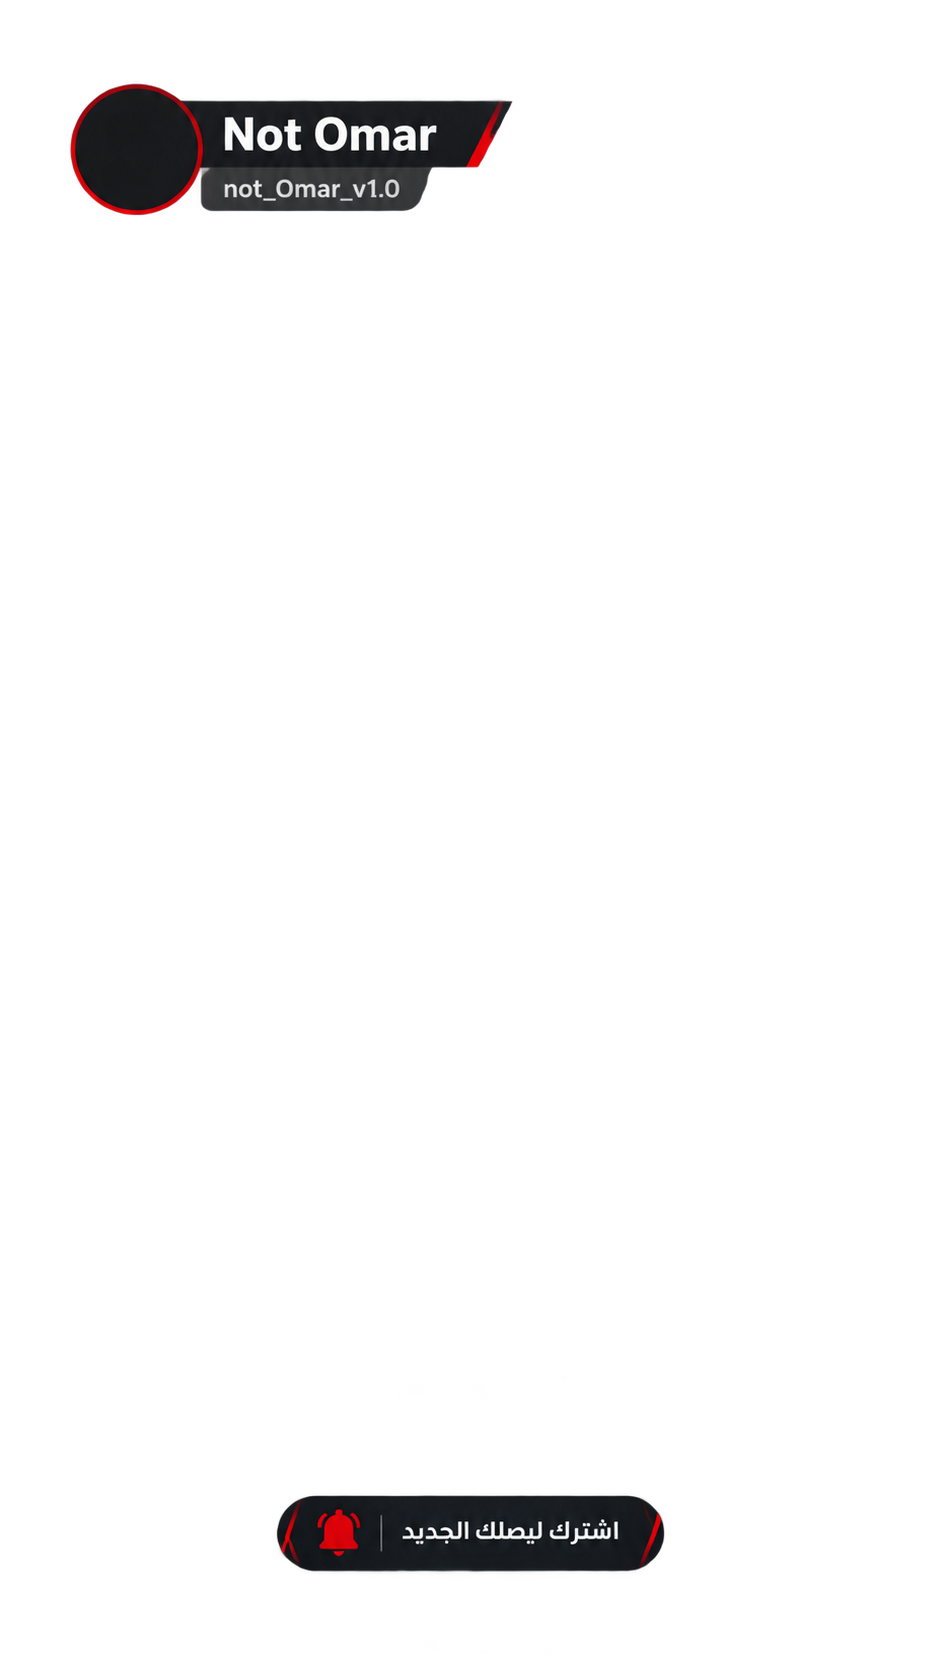
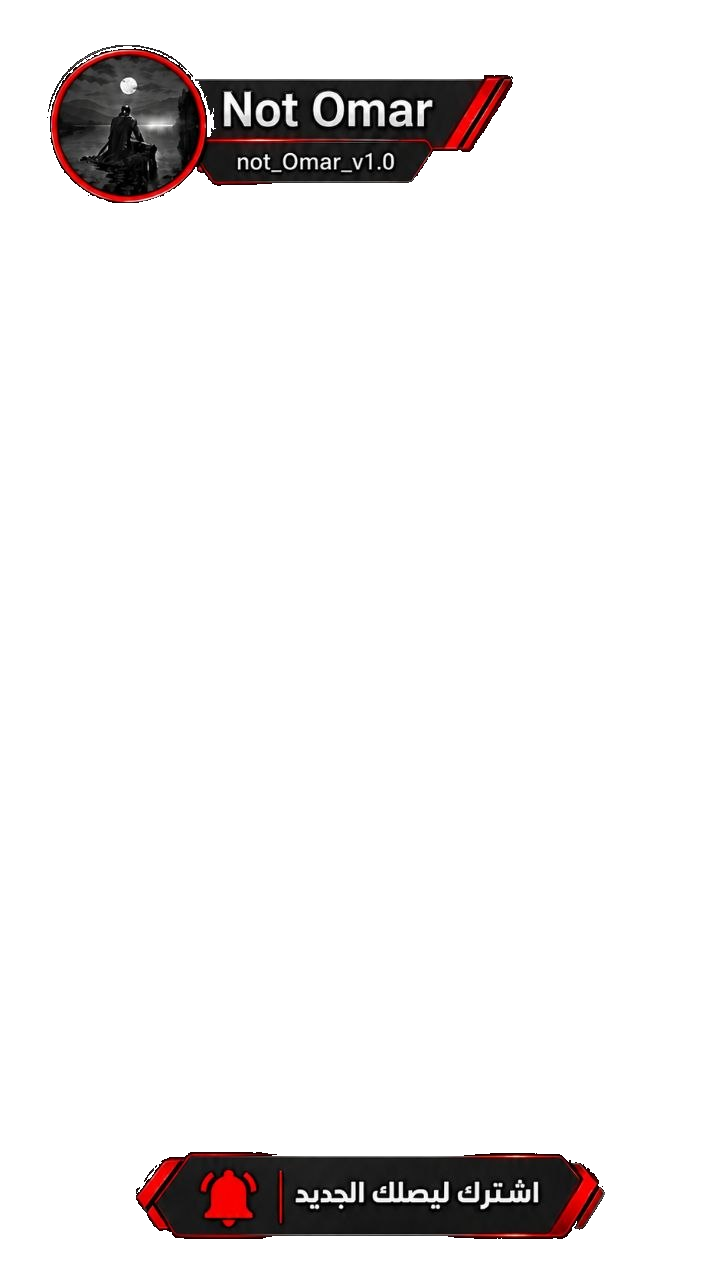
feat: adopt transparent Shorts template

Changed region(s): [[0.0611, 0.0312, 0.7028, 0.1562], [0.1833, 0.875, 0.8556, 0.9688]]

diff --git a/tests/test_video_compositor.py b/tests/test_video_compositor.py
@@ -91,7 +91,7 @@ class VideoCompositorTests(unittest.TestCase):
         )
         self.assertEqual(
             direct_layout["main_video"],
-            {"x": 92, "y": 163, "width": 680, "height": 1210},
+            {"x": 92, "y": 243, "width": 680, "height": 1130},
         )
         self.assertAlmostEqual(
             direct_layout["main_video"]["width"] / direct_layout["output"]["width"],
@@ -158,8 +158,8 @@ class VideoCompositorTests(unittest.TestCase):
             self.assertEqual(len(ffmpeg_commands), 2)
             direct_graph = ffmpeg_commands[0][ffmpeg_commands[0].index("-filter_complex") + 1]
             long_graph = ffmpeg_commands[1][ffmpeg_commands[1].index("-filter_complex") + 1]
-            self.assertIn("scale=680:1210:force_original_aspect_ratio=decrease", direct_graph)
-            self.assertIn("pad=680:1210:(ow-iw)/2:(oh-ih)/2", direct_graph)
+            self.assertIn("scale=680:1130:force_original_aspect_ratio=decrease", direct_graph)
+            self.assertIn("pad=680:1130:(ow-iw)/2:(oh-ih)/2", direct_graph)
             self.assertIn("scale=934:1660:force_original_aspect_ratio=increase", direct_graph)
             self.assertIn("gblur=sigma=24", direct_graph)
             self.assertIn("scale=800:450:force_original_aspect_ratio=decrease", long_graph)
@@ -189,16 +189,16 @@ class VideoCompositorTests(unittest.TestCase):
             self.assertIsNotNone(direct_bounds, "The fitted foreground should remain visible")
             direct_width = direct_bounds[2] - direct_bounds[0] + 1
             direct_height = direct_bounds[3] - direct_bounds[1] + 1
-            self.assertAlmostEqual(direct_width, 680, delta=8)
-            self.assertAlmostEqual(direct_height, 1209, delta=10)
+            self.assertAlmostEqual(direct_width, 636, delta=8)
+            self.assertAlmostEqual(direct_height, 1129, delta=10)
             self.assertAlmostEqual(direct_width / direct_height, 360 / 640, delta=0.03)
 
-            scale = min(680 / 360, 1210 / 640)
+            scale = min(680 / 360, 1130 / 640)
             marker_centers = {
-                "red": (92 + round(16 * scale), 163 + round(16 * scale)),
-                "blue": (92 + round(344 * scale), 163 + round(16 * scale)),
-                "yellow": (92 + round(16 * scale), 163 + round(624 * scale)),
-                "magenta": (92 + round(344 * scale), 163 + round(624 * scale)),
+                "red": (92 + round(16 * scale), 243 + round(16 * scale)),
+                "blue": (92 + round(344 * scale), 243 + round(16 * scale)),
+                "yellow": (92 + round(16 * scale), 243 + round(624 * scale)),
+                "magenta": (92 + round(344 * scale), 243 + round(624 * scale)),
             }
             thresholds = {
                 "red": lambda r, g, b: r > 150 and g < 90 and b < 90,
@@ -220,7 +220,7 @@ class VideoCompositorTests(unittest.TestCase):
             long_height = long_bounds[3] - long_bounds[1] + 1
             self.assertAlmostEqual(long_width / long_height, 360 / 640, delta=0.03)
             self.assertAlmostEqual(long_height, 450, delta=8)
-            self.assertGreater(direct_width, long_width * 2.5)
+            self.assertGreater(direct_width, long_width * 2.45)
 
 
 if __name__ == "__main__":

diff --git a/assets/README.md b/assets/README.md
@@ -1,5 +1,5 @@
 # أصول قالب Shorts
 
-يستخدم المشروع قالب PNG الموجود في `template.png` كما يقدمه صاحب المشروع؛ لا ينشئ كود المعالجة تصميم القالب ولا يغيّره. يجب أن يحتوي القالب، عند الحاجة، على منطقة شفافة للفيديو الرئيسي، ويمكن وضع القوالب البديلة في `assets/templates/shorts/`.
+يستخدم المشروع قالب PNG الموجود في `template.png` كما يقدمه صاحب المشروع؛ لا ينشئ كود المعالجة التصميم. يحتوي القالب الرسمي الحالي على قناة ألفا، وقد جُعلت المساحات السوداء الخارجية المتصلة بحافة اللوحة شفافة مع الحفاظ على التفاصيل الداكنة المحاطة بالتصميم. يمكن وضع القوالب البديلة في `assets/templates/shorts/`.
 
-يخرج المساران بمقاس `864×1536`. روابط Shorts المباشرة تستخدم `shorts_layout_direct.json`: صندوق فيديو `x=92, y=163, width=680, height=1210` (نحو 79% من عرض الإطار)، مع احتواء يحافظ على كامل نسبة المصدر بلا قص أو تمديد. خلفيتها مكبّرة 1.08× ومموهة بدرجة 24. أما مقاطع `/long` فتظل على `shorts_layout.json` بصندوقها الحالي `x=32, y=430, width=800, height=450` وتمويه 25. في المسارين، القص مسموح للخلفية فقط؛ الطبقة الرئيسية تُحافظ على نسبة الأبعاد.
+يخرج المساران بمقاس `864×1536`. روابط Shorts المباشرة تستخدم `shorts_layout_direct.json`: صندوق فيديو `x=92, y=243, width=680, height=1130` (نحو 79% من عرض الإطار)، مع احتواء يحافظ على كامل نسبة المصدر بلا قص أو تمديد. يبدأ الصندوق أسفل الشريط العلوي وينتهي قبل الشريط السفلي. خلفيته مكبّرة 1.08× ومموهة بدرجة 24. أما مقاطع `/long` فتظل على `shorts_layout.json` بصندوقها الحالي `x=32, y=430, width=800, height=450` وتمويه 25. في المسارين، القص مسموح للخلفية فقط؛ الطبقة الرئيسية تُحافظ على نسبة الأبعاد.
